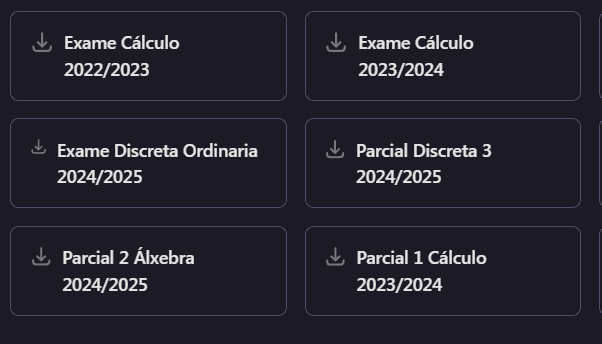
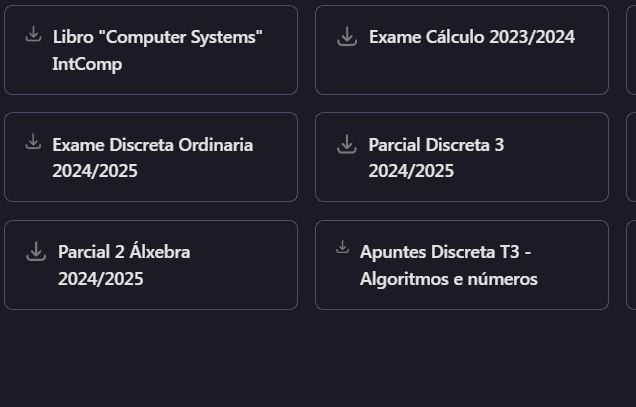
Mellorar deseño responsivo

diff --git a/content/_index.md b/content/_index.md
@@ -4,7 +4,6 @@ layout: hextra-home
 ---
 
 <style>
-  /* Aliñamento responsivo para todo o contido */
   .text-container, .badge-container {
     text-align: center;
     margin-left: auto;
@@ -16,12 +15,15 @@ layout: hextra-home
     justify-content: center;
   }
   
-  /* Estilo para o subtítulo personalizado */
   .custom-subtitle {
     font-size: 1rem;
     line-height: 1.6;
-    color: rgba(160, 160, 175, 0.9);
+    color: rgba(120, 120, 120, 0.85);
     margin-top: 1rem;
+    max-width: 300px;
+    margin-left: auto;
+    margin-right: auto;
+    text-align: center;
   }
   
   @media (min-width: 768px) {
@@ -37,13 +39,9 @@ layout: hextra-home
     
     .custom-subtitle {
       font-size: 1.1rem;
-    }
-  }
-  
-  /* Modo escuro */
-  @media (prefers-color-scheme: dark) {
-    .custom-subtitle {
-      color: rgba(180, 180, 190, 0.8);
+      max-width: 430px;
+      margin-left: 0;
+      text-align: left;
     }
   }
 </style>
@@ -51,23 +49,27 @@ layout: hextra-home
 <div class="badge-container">
 {{< hextra/hero-badge link="/changelog/" >}}
   <div class="hx-w-2 hx-h-2 hx-rounded-full hx-bg-primary-400"></div>
-  <span>Beta</span>
+  <span>Beta testing</span>
   {{< icon name="arrow-circle-right" attributes="height=14 class=hx-text-purple-500 style=fill:transparent!important;" >}}
 {{< /hextra/hero-badge >}}
 </div>
+<div class="hx-mt-1.5"></div>
+<div class="hx-mt-1.5"></div>
 
 {{< two-column-hero >}}
 <div class="hx-mt-4 hx-mb-4 text-container">
 {{< hextra/hero-headline >}}
   memorIA
-  <div class="hx-h-2 sm:hx-h-3"></div>
+  <div class="hx-h-4 sm:hx-h-5"></div>
   <span class="hx-text-xl sm:hx-text-2xl md:hx-text-3xl hx-font-semibold hx-opacity-90">Repositorio de recursos académicos</span>
 {{< /hextra/hero-headline >}}
 </div>
 
 <div class="hx-mb-8 text-container">
   <p class="custom-subtitle">
-    Un espazo colaborativo onde atopar e compartir material de estudo, exercicios resoltos, apuntes e recursos didácticos. Proxecto de código aberto.
+    Un espazo colaborativo onde atopar e compartir
+    material de estudo, exercicios resoltos, apuntes
+    e recursos didácticos. Proxecto de código aberto.
   </p>
 </div>
 
@@ -101,7 +103,7 @@ layout: hextra-home
   >}}
   {{< hextra/feature-card
     title="Arquivos Descargables"
-    subtitle="Documentos e materiais de estudo en distintos formatos listos para descargar (exames, apuntes, libros...)."
+    subtitle="Documentos en distintos formatos listos para descargar."
     class="hx-aspect-auto md:hx-aspect-[1.1/1] max-md:hx-min-h-[340px]"
     image="images/arquivos.png"
     imageClass="hx-top-[20%] hx-w-[180%] sm:hx-w-[110%] dark:hx-opacity-80"

diff --git a/content/changelog/2025/03-14-desenho-responsivo.md b/content/changelog/2025/03-14-desenho-responsivo.md
@@ -1,0 +1,52 @@
+---
+date: 2025-03-14
+title: Melloras para un deseño máis responsivo
+description: Correccións de formato de texto na pantalla de inicio
+tags:
+  - commit
+  - web
+  - style
+authors:
+  - name: pisco
+    link: https://github.com/piscolabi
+    image: https://github.com/piscolabi.png?size=40
+toc: true
+excludeSearch: true
+sidebar:
+  exclude: true
+---
+## Melloras no deseño da páxina principal
+
+### Cambios no encabezado
+
+- **Maior espazo entre elementos**: Aumentouse a separación entre o título "memorIA" e o subtítulo "Repositorio de recursos académicos" para mellorar a lexibilidade.
+  - Modificouse a clase de altura de `hx-h-2 sm:hx-h-3` a `hx-h-4 sm:hx-h-5` para duplicar o espazo vertical.
+
+### Optimización do subtítulo descritivo
+
+- **Formato de texto mellorado**: Reorganizouse o texto descritivo para que semelle un recadro máis compacto e coherente.
+  - Eliminouse a xustificación do texto para evitar espazos irregulares entre palabras.
+  - Mantívose o texto centrado en dispositivos móbiles e aliñado á esquerda en pantallas grandes.
+
+- **Responsividade mellorada**:
+  - Para pantallas pequenas: ancho máximo de 350px, texto centrado.
+  - Para pantallas grandes (>768px): ancho máximo de 430px, texto aliñado á esquerda.
+
+### Optimización visual
+
+- **Axustes de cor**: Refinouse a cor do texto no modo escuro para mellorar o contraste e a lexibilidade.
+  - Cambiouse a cor a `rgba(122, 133, 133, 0.8)` no modo escuro.
+
+- **Mellora na estrutura de contido**: Reorganizáronse os elementos para crear unha distribución máis equilibrada e visualmente atractiva.
+
+## Melloras no contido
+
+- **Refinamento de textos**: Mellorouse a redacción de varios textos descritivos para ser máis claros e directos.
+  - Optimizouse o texto do subtítulo principal para unha mellor lectura en diferentes dispositivos.
+
+- **Adaptación responsiva de contidos**: Implementáronse axustes para garantir que os textos se visualicen correctamente en calquera tamaño de pantalla.
+
+## Próximos pasos
+
+- Seguro que axustarei máis o deseño, pero únicamente da autentificación e a páxina principal, que son as únicas que empregan animacións.
+- Refinar a paleta de cores para o modo escuro??

diff --git a/content/docs/primeiro/AdqSin/recursos/_index.md b/content/docs/primeiro/AdqSin/recursos/_index.md
@@ -51,7 +51,7 @@ Neste video explóranse as diversas aplicacións dos diodos en circuítos electr
 - [Electronics Tutorials](https://www.electronics-tutorials.ws/) - Recursos educativos sobre electrónica básica e avanzada
 
 {{< cards cols="3">}}
-  {{< card link="exame-calculo-2022-2023.pdf" title="Exame Cálculo 2022/2023" icon="download" >}}
+  {{< card link="exame-calculo-2022-2023.pdf" title="Libro \"Computer Systems\" IntComp" icon="download" >}}
   {{< card link="exame-calculo-2023-2024.pdf" title="Exame Cálculo 2023/2024" icon="download" >}}
   {{< card link="exame-calculo-2024-2025.pdf" title="Exame Cálculo 2024/2025" icon="download" >}}
 {{< /cards >}}
@@ -64,6 +64,6 @@ Neste video explóranse as diversas aplicacións dos diodos en circuítos electr
 
 {{< cards cols="3">}}
   {{< card link="exame-calculo-parcial1-2022-2023.pdf" title="Parcial 2 Álxebra 2024/2025" icon="download" >}}
-  {{< card link="exame-calculo-parcial1-2023-2024.pdf" title="Parcial 1 Cálculo 2023/2024" icon="download" >}}
+  {{< card link="exame-calculo-parcial1-2023-2024.pdf" title="Apuntes Discreta T3 - Algoritmos e números" icon="download" >}}
   {{< card link="exame-calculo-parcial1-2024-2025.pdf" title="Parcial 1 Cálculo 2024/2025" icon="download" >}}
 {{< /cards >}}

diff --git a/content/about/index.md b/content/about/index.md
@@ -18,7 +18,6 @@ toc: false
 
 O proxecto busca crear unha biblioteca dixital de recursos educativos, apuntes e materiais de estudo, organizada de maneira accesible e intuitiva. O principal obxectivo é facilitar o acceso ao coñecemento, ofrecendo unha plataforma onde os estudantes poidan atopar información relevante e actualizada sobre diversas materias.
 
-> The idea that knowledge should be kept secret is the opposite of the spirit of science - Richard Stallman
 
 <div class="hx-mt-8"></div>
 
@@ -113,3 +112,5 @@ Este proxecto foi creado utilizando as seguintes tecnoloxías:
 
 
 <div class="hx-mt-16"></div>
+
+> The idea that knowledge should be kept secret is the opposite of the spirit of science - Richard Stallman

diff --git a/content/docs/_index.md b/content/docs/_index.md
@@ -1,12 +1,12 @@
 ---
 linkTitle: "Docs"
-title: "Índice xeral - repositorio académico"
+title: "Índice xeral"
 toc: true
 ---
 
 <div class="hx-mt-16"></div>
 
-{{< hextra/feature-grid cols="4" >}}
+{{< hextra/feature-grid cols="2" >}}
   {{< hextra/feature-card
     title="Primeiro Curso"
     subtitle="Fundamentos de IA, matemáticas e programación"

diff --git a/content/changelog/_index.md b/content/changelog/_index.md
@@ -1,5 +1,5 @@
 ---
-title: "Actualizacións"
+title: "Actualizacións do proxecto"
 width: normal
 description: Cambios e novedades na plataforma.
 ---
